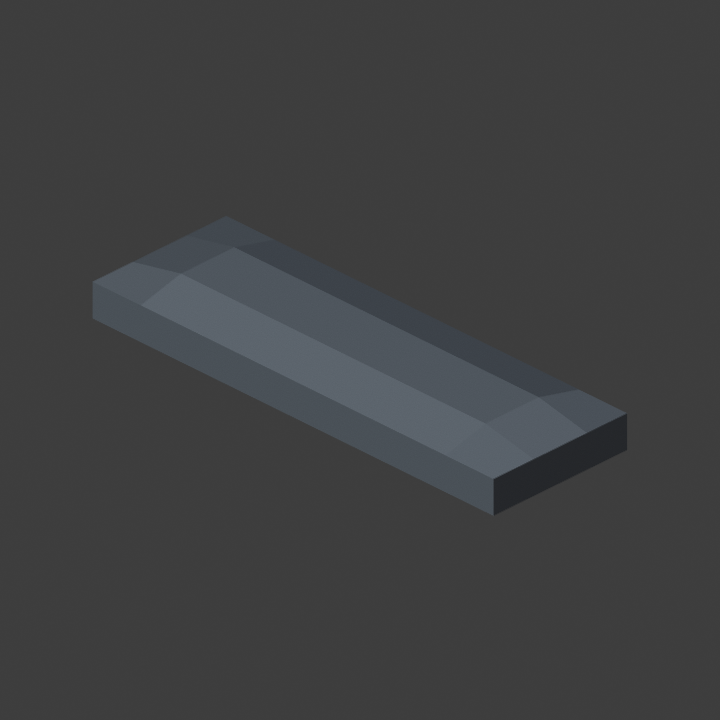
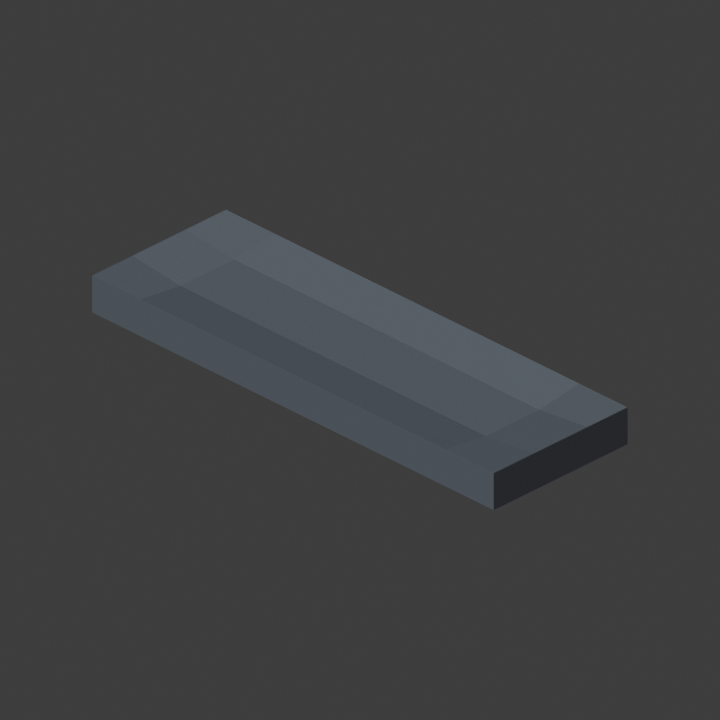
Fix a real coordinate-space bug: local vs world mismatch inverted the anvil recess and no-opped the hinge throat
mesh_ops._bm_from_object reads Blender's mesh data directly, which is
always in local (object-space) coordinates -- but both CUT_ANVIL_RECESS and
OPEN_HINGE_THROAT computed target positions in world space and applied them
straight to local vertex coordinates. Effects, found by direct vertex
inspection rather than trusting a clean commit or a render glance:

- BaseShell_HIGH's "recess" was actually a 4.6mm bump above the top surface,
  not a 2.5mm recess below it. The earlier isolated render looked like a
  correct recess at the time; re-rendering the corrected version now looks
  visually almost identical to the wrong one under this flat-shaded style --
  a raised strip and a recessed groove aren't reliably distinguishable
  without raking light or a numeric check, worth remembering going forward.
- TopLeverShell_HIGH's hinge taper never applied at all -- the world-space Z
  target never matched any local vertex, so the move step silently selected
  nothing, and both the health check and PERFORM_RESULT still looked clean.

Two more layers surfaced while fixing this, each caught by inspecting real
vertex positions rather than trusting the previous fix's clean commit: a
first fix attempt moved the wrong vertex (an unrelated box corner) due to a
second offset-math error, and the original bug's last cut had also landed
6.66mm short of the lever's true front edge, leaving an ungapped sliver at
the tip. Both corrected. Final state verified two ways: a direct world-space
[…]

diff --git a/runs/2026-08-21_swingline-747-primary-cage/README.md b/runs/2026-08-21_swingline-747-primary-cage/README.md
@@ -91,6 +91,69 @@ hid the recess behind the taller lever object, so rendered the base in isolation
 lever hidden) specifically to see it clearly, rather than accepting an inconclusive check. It reads
 correctly: a clean, visible shallow channel running the base's length, matching reference intent.
 
-Not yet built: the hinge cut, the lever's own crown/nose profile, and the separate `AnvilPlate`,
-`MagazineRail`, `HingePin`, `Latch`, `Spring`, `RubberBasePad` components this prop's `reference_plan.md`
-calls for once the primary cages are correct.
+Not yet built: the lever's own crown/nose profile, and the separate `AnvilPlate`, `MagazineRail`,
+`HingePin`, `Latch`, `Spring`, `RubberBasePad` components this prop's `reference_plan.md` calls for
+once the primary cages are correct.
+
+## Stage 2: a real coordinate-space bug, found by direct inspection, not by trusting a render
+
+Attempted the hinge throat next (`OPEN_HINGE_THROAT`, tapering the lever's underside up from the
+rear hinge toward the front, per `reference_plan.md`'s flag that the cover/base throat "is a
+critical negative space [that] must survive every blockout"). It committed clean and the render
+looked plausible at a glance -- but two views (`throat_side.png`, an end-on view that can't show a
+taper varying along that same axis at all, and `throat_iso.png`, where the gap was too subtle to
+read confidently) weren't good enough evidence, so a proper front elevation was rendered next.
+
+That still didn't resolve it cleanly, so the actual vertex data was inspected directly rather than
+keep reasoning from renders -- and that's what found the real bug: `mesh_ops._bm_from_object` reads
+`bpy.data.objects[name].data` directly, which Blender always stores in **local** (object-space)
+coordinates, but both `CUT_ANVIL_RECESS` and `OPEN_HINGE_THROAT` computed their target positions in
+**world** space and applied them directly to local vertex coordinates. Concretely:
+
+- `BaseShell_HIGH`'s "recess" was actually a 4.6mm **bump** above the top surface (world Z 18.87 vs.
+  the true top at 14.25), not a 2.5mm recess below it. The earlier isolated render
+  (`base_only_iso.png`, described at the time as "a clean visible channel") was real geometry, but
+  its shading direction was misread -- a raised strip and a recessed groove can look close to
+  identical under flat matcap-style lighting without a raking light or a numeric check. Re-rendering
+  the corrected version afterward (still `base_only_iso.png`) looks **visually almost identical** to
+  the wrong version -- confirming this render style genuinely cannot reliably disambiguate the two on
+  its own. Worth remembering for future stages: a shallow depth feature needs either raking light,
+  a wireframe/cross-section check, or direct vertex inspection, not just a solid-shaded glance.
+- `TopLeverShell_HIGH`'s hinge taper never applied at all in the first attempt -- the world-space Z
+  target never matched any local vertex Z, so the intended "move" step silently selected nothing.
+  `PERFORM_RESULT` and the health check both looked clean because the topology from the X-bisects
+  was still valid; only a direct vertex dump caught that the Z edit was a no-op.
+
+**Two more layers surfaced while fixing this, each caught the same way -- by inspecting actual
+vertex positions rather than trusting the previous fix's clean commit:**
+
+1. A first fix attempt (`FIX_COORDINATE_SPACE_BUG`) converted world targets to local by subtracting
+   the object's own origin offset -- correct in principle, but it needed to match vertices the
+   *original bug* had already placed at the raw world-intended numbers (since that bug treated world
+   values as local directly), not at a freshly-recomputed "correct" local position. It ended up
+   moving the box's own unrelated front-corner vertex instead of the intended cut points.
+2. A second fix (`FIX_LEVER_THROAT_PRECISELY`) matched the verified existing positions directly and
+   got the five real taper cuts right (confirmed: `reverted: 2, moved: 10`, matching the two stray
+   verts undone and five cuts times two sides) -- but left one small sliver: the *original* buggy
+   script's last cut had landed 6.66mm short of the lever's true front edge (the same
+   world-used-as-local error, applied to the box's own boundary this time), leaving a thin ungapped
+   nub right at the tip instead of a smooth taper to the edge. Closed with one more targeted fix
+   (`CLOSE_FRONT_SLIVER`).
+
+Final state verified two ways, not one: a direct world-space vertex dump (base recess floor at world
+Z 11.75, correctly below the 14.25 top; lever underside progressing smoothly from Z 14.25 at the
+rear hinge up to Z 22.24 near the front, all the way to the true edge) and a front-elevation render
+(`fixed_front.png`) that now shows the intended wedge clearly: flush at the rear, opening into a
+real visible gap toward the front, matching what `747_open_mechanism.jpg` and the closed-state
+photos both show. Five decisions total for this bug (`OPEN_HINGE_THROAT` through `CLOSE_FRONT_SLIVER`),
+decision_revision 1 -> 5, all individually committed and health-checked, none silently squashed.
+
+**The generalizable lesson, worth carrying into every future construction script on this project**:
+`mesh_ops._bm_from_object`/`_write_back` operate in the object's local space. Any script that creates
+an object with a non-zero `location` (as every script in this run has, to place parts at their real
+world positions) must either convert world-intended targets to local before touching `v.co`, or
+avoid the ambiguity entirely by baking location into the mesh at creation time. Every prior
+prop this session (MasterLock, C38, KUPONG) happened not to hit this because their target-writing
+code either worked at an object origin of `(0,0,0)` or derived its targets by reading the mesh's own
+current values back out (as the KUPONG taper fixes did) rather than computing a fresh world-space
+number -- this bug was waiting to happen the first time a script mixed both patterns, and it did.
